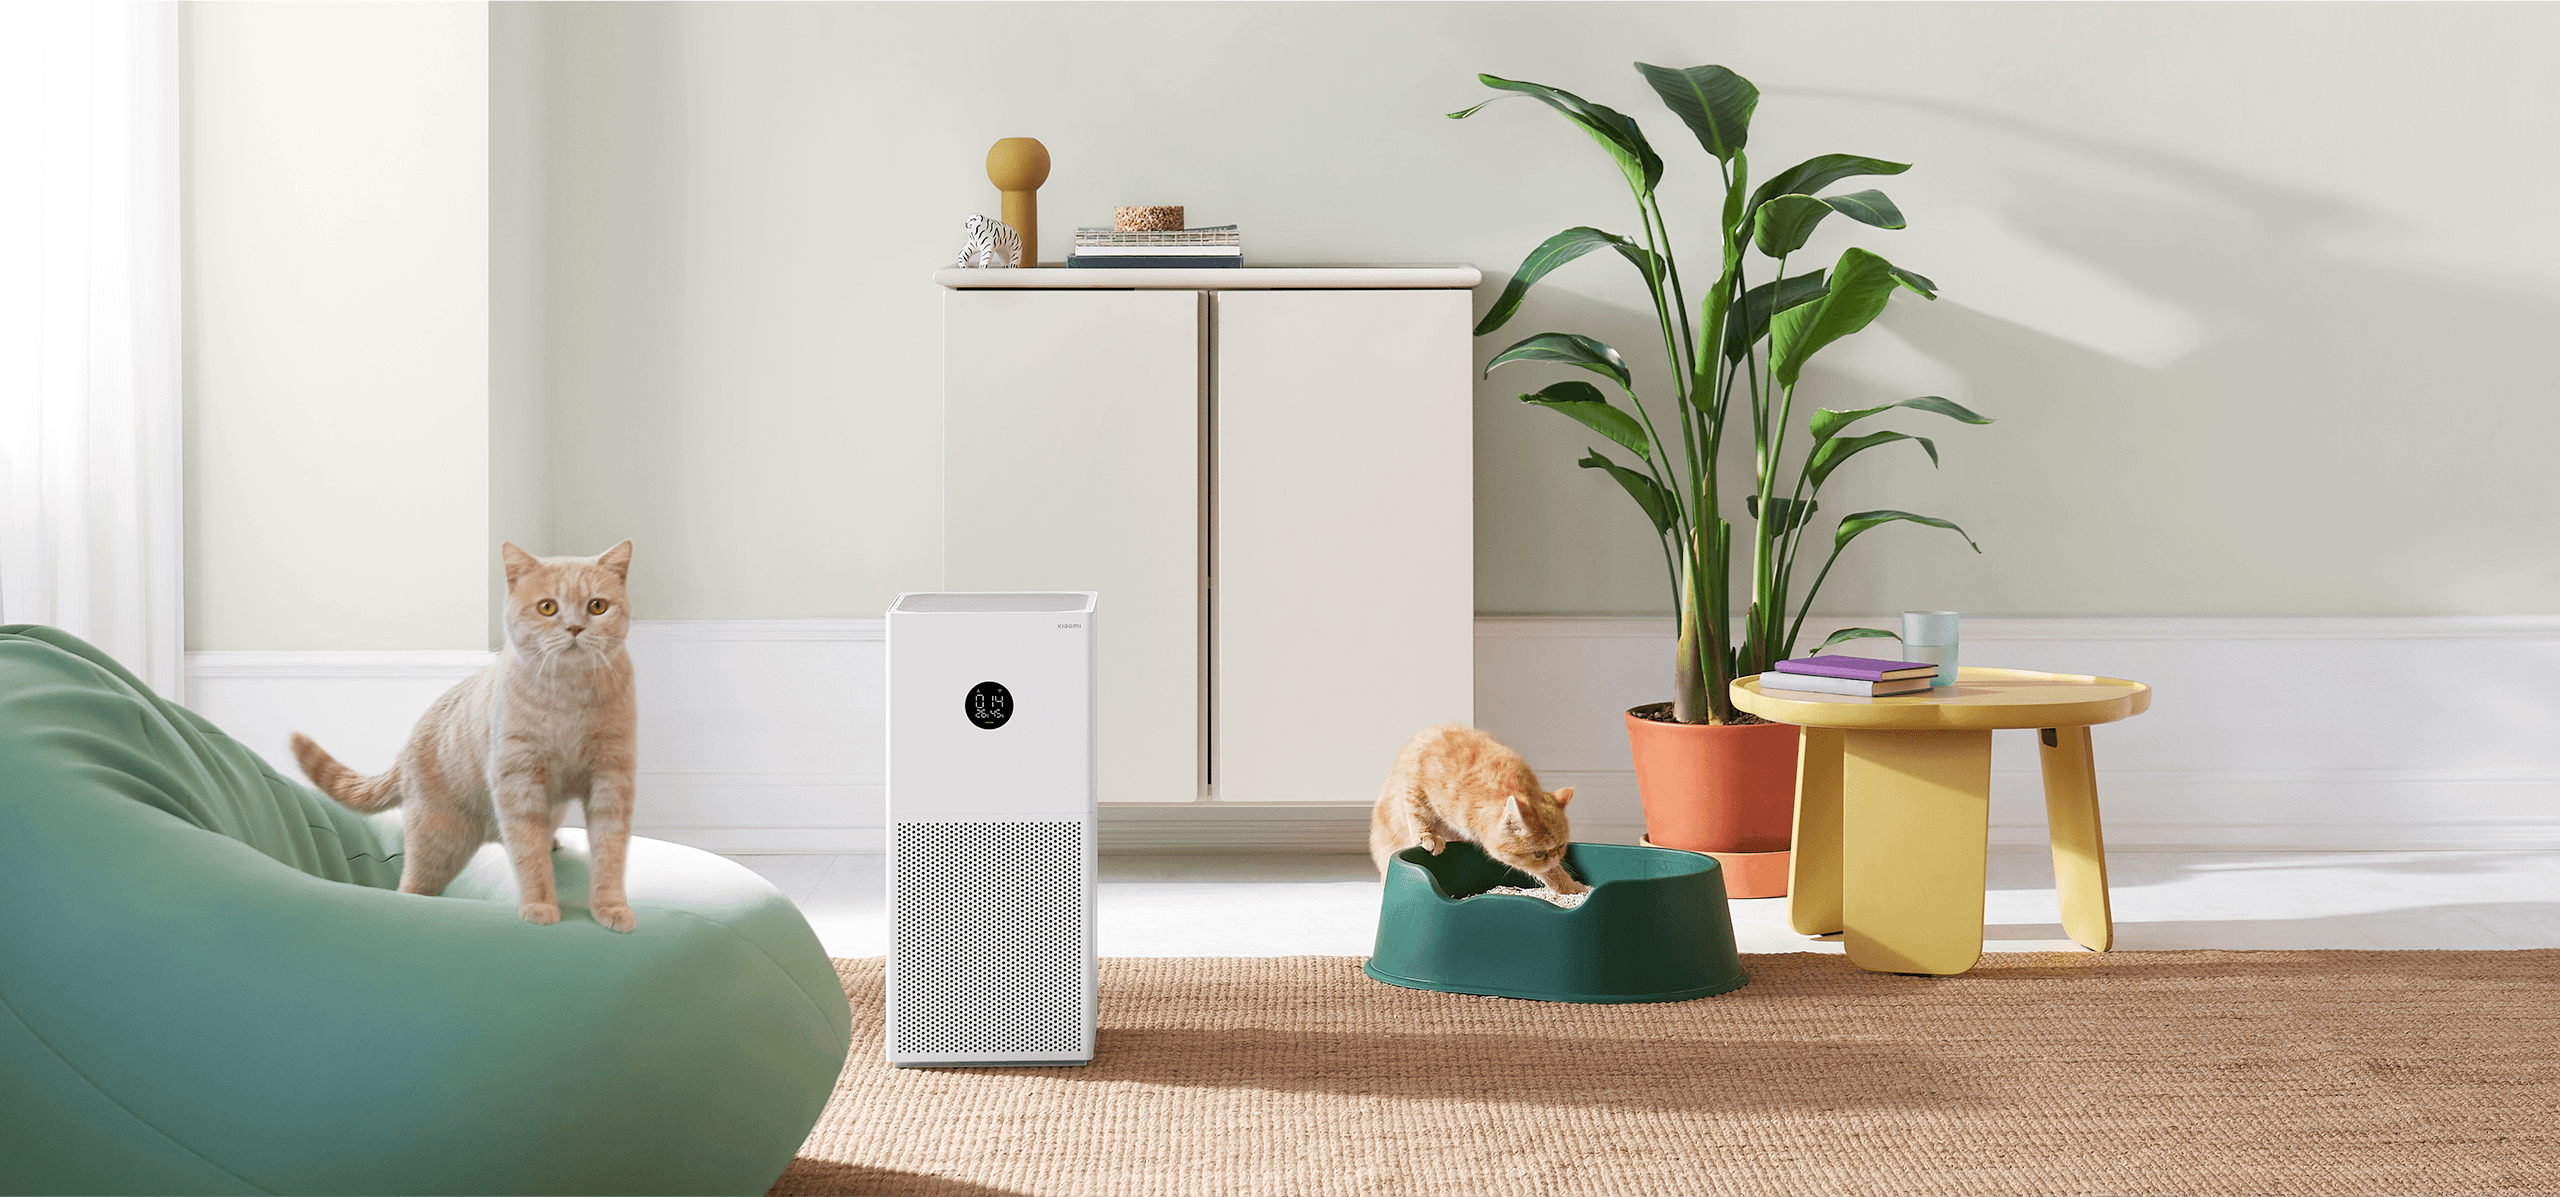
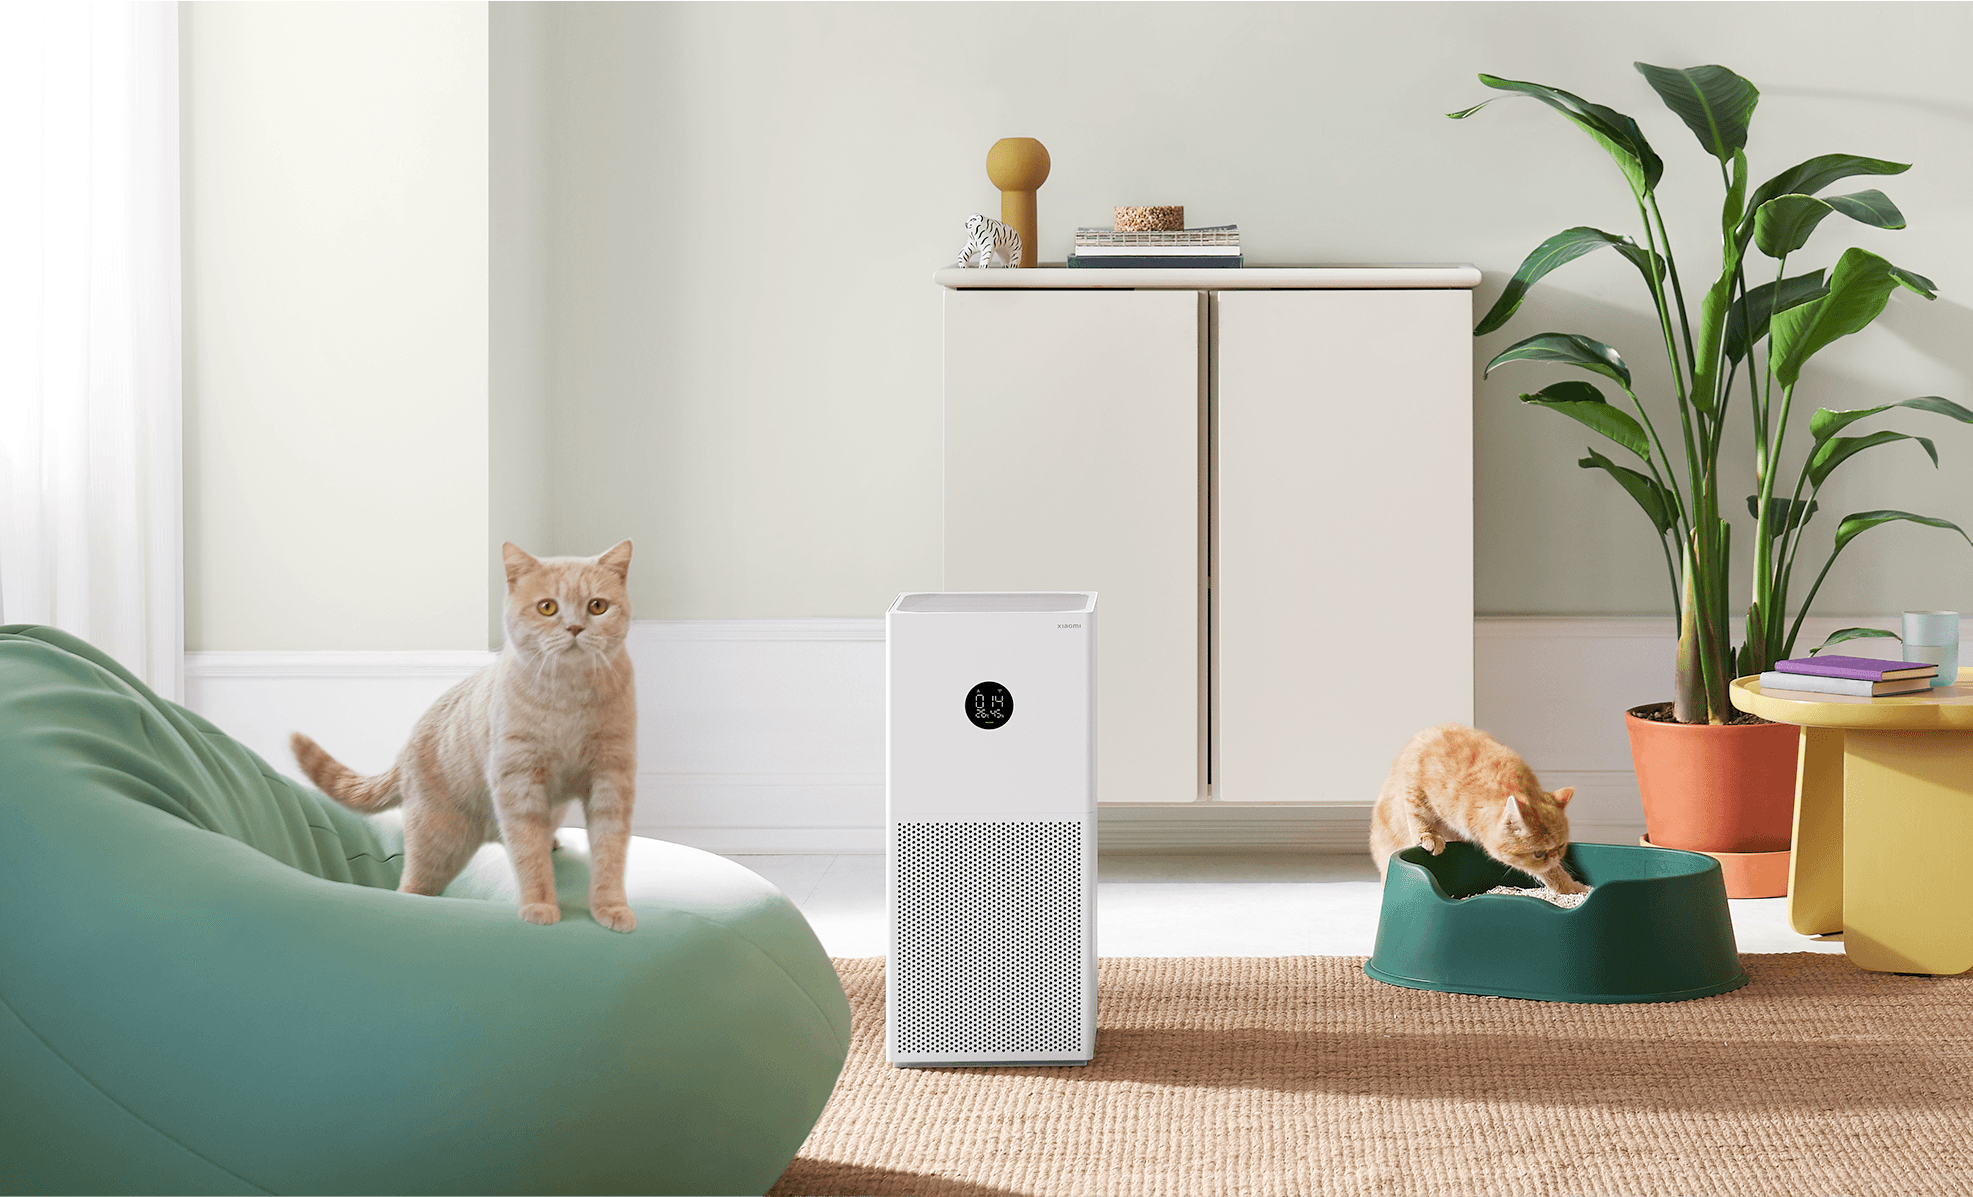
Blog and Article Page

diff --git a/src/routes/blog.tsx b/src/routes/blog.tsx
@@ -17,10 +17,13 @@ const Blog = () => {
       <Helmet>
         <title>Blog · Xiaomi</title>
       </Helmet>
-      <main className="flex flex-col gap-48">
+      <main className="flex flex-col gap-20 md:gap-48">
         <Splash src={articles[5].pic} alt="Xiaomi Smart Air Purifier 4">
-          <div className="flex min-h-svh w-full items-start justify-end px-4 py-12 md:px-16 md:py-32">
-            <div className="flex max-w-lg flex-col items-center gap-8 rounded-2xl bg-white px-9 py-7 text-left">
+          <div className="flex min-h-svh w-full items-center justify-center px-4 py-12 pt-32 md:min-h-full md:px-16 md:py-32 lg:justify-end">
+            <div className="flex max-w-3xl flex-col items-center gap-8 rounded-2xl bg-white bg-opacity-80 px-9 py-7 text-left lg:absolute">
+              <MiText className="font-medium text-emerald-600">
+                Featured Read
+              </MiText>
               <MaskText variant="splash" text={articles[5].title} />
               <p className="flex w-full items-start">{articles[5].date}</p>
               <MiText className="font-medium text-slate-800">
@@ -29,35 +32,52 @@ const Blog = () => {
                 cleaning, discover what you need.
               </MiText>
               <Button asChild className="flex items-center">
-                <Link to="/product">Discover More</Link>
+                <Link to="/article/5">Read More</Link>
               </Button>
             </div>
           </div>
         </Splash>
-        <div className="max-w-3xl px-4 md:px-16">
-          <MaskText
-            variant="header"
-            text="Introducing Smart Air Purifier 4"
-            className="mb-8"
-          />
-          <MiText>
-            Designed to tackle indoor air pollution head-on and ensure that
-            every breath you take is pure and healthy.
-          </MiText>
-        </div>
-        {/* <div className="h-[200vh]"></div> */}
 
-        <section className="mb-48 flex flex-col items-start px-4 md:px-16">
+        <section className="mb-8 flex flex-col items-start px-4 md:px-16">
           <MaskText
             variant="header"
             text="Latest Articles"
-            className={`mb-8`}
+            className={`mb-16`}
+          />
+          <FadeIn>
+            <div className="grid w-full grid-cols-1 gap-16 sm:grid-cols-2 md:gap-8 lg:grid-cols-3">
+              {articles.slice(0, 4).map((article, index) => (
+                <div key={index}>
+                  <Link to={`/article/${index}`}>
+                    <AspectRatio ratio={3 / 2} className="mb-6">
+                      <img
+                        src={article.pic}
+                        alt={article.title}
+                        className="size-full rounded-3xl object-cover"
+                      />
+                    </AspectRatio>
+                    <h6 className={`mb-2 font-display text-2xl font-semibold`}>
+                      {article.title}
+                    </h6>
+                    <p>{article.date}</p>
+                  </Link>
+                </div>
+              ))}
+            </div>
+          </FadeIn>
+        </section>
+
+        <section className="flex flex-col items-start px-4 md:px-16">
+          <MaskText
+            variant="header"
+            text="Featured Reads"
+            className={`mb-16`}
           />
           <FadeIn>
             <div className="mb-16 grid w-full grid-cols-1 gap-16 sm:grid-cols-2 md:gap-8 lg:grid-cols-3">
-              {articles.map((article, index) => (
+              {articles.slice(2).map((article, index) => (
                 <div key={index}>
-                  <Link to={`/article/${index}`}>
+                  <Link to={`/article/${index + 3}`}>
                     <AspectRatio ratio={3 / 2} className="mb-6">
                       <img
                         src={article.pic}

diff --git a/src/routes/article.tsx b/src/routes/article.tsx
@@ -4,10 +4,12 @@ import Button from "@/components/ui/button";
 import MiText from "@/components/ui/miText";
 import { Helmet } from "react-helmet-async";
 import { Link, useParams } from "react-router-dom";
+import { useMediaQuery } from "@/hooks/useMediaQuery";
 
 import { articles } from "@/data/articles";
 
 const Article = () => {
+  const isLarge = useMediaQuery("(min-width: 768px)");
   const params = useParams();
   const id = params.id;
 
@@ -18,9 +20,20 @@ const Article = () => {
         <title>{article.title} · Xiaomi</title>
       </Helmet>
       <main className="flex flex-col gap-20 md:gap-48">
-        <Splash src={article.pic} alt="Xiaomi Smart Air Purifier 4">
+        <Splash
+          src={
+            isLarge
+              ? article.pic
+              : article.pic_cropped
+                ? article.pic_cropped
+                : article.pic
+          }
+          alt="Xiaomi Smart Air Purifier 4"
+        >
           <div className="justify-centre flex min-h-svh w-full items-end px-4 py-12 sm:px-48 md:gap-16 md:px-48 md:py-24 lg:px-64 2xl:px-96">
-            <div className="flex flex-col items-start gap-8 text-left">
+            {/* Gradient overlay */}
+            <div className="absolute inset-0 z-10 rounded-3xl bg-gradient-to-b from-white/0 to-black/30"></div>
+            <div className="relative z-20 flex flex-col items-start gap-8 text-left">
               <MaskText
                 variant="splash"
                 text={article.title}

diff --git a/src/data/articles.ts b/src/data/articles.ts
@@ -2,13 +2,17 @@ import Article1 from "../assets/articles/article1.png";
 import Article2 from "../assets/articles/article2.png";
 import Article3 from "../assets/articles/article3.png";
 import Article4 from "../assets/articles/article4.png";
+import Article4_cropped from "../assets/articles/article4_cropped.png";
 import Article5 from "../assets/articles/article5.png";
 import Article6 from "../assets/articles/article6.jpeg";
+import Article6_cropped from "../assets/articles/article6_cropped.jpeg";
+
 
 type ArticleType = {
   title: string;
   date: string;
   pic: string;
+  pic_cropped?: string;
   content: {
     body: { paraTitle?: string; paraText: string; paraText2?: string; paraText3?: string; paraText4?: string; paraText5?: string }[];
     sources: { link: string; linkTitle: string; supporting: string }[];
@@ -21,6 +25,7 @@ export const articles: ArticleType = [
     title: "Air Purifier Myths Debunked: Separating Facts from Fiction",
     date: "7 Nov 2024",
     pic: Article6,
+    pic_cropped: Article6_cropped,
     content: {
       body: [
         {
@@ -164,6 +169,7 @@ export const articles: ArticleType = [
   {
     title: "Breathe Easy: The Role of Air Purifiers in Allergy Relief",
     date: "25 Oct 2024",
+    pic_cropped: Article4_cropped,
     pic: Article4,
     content: {
       body: [
